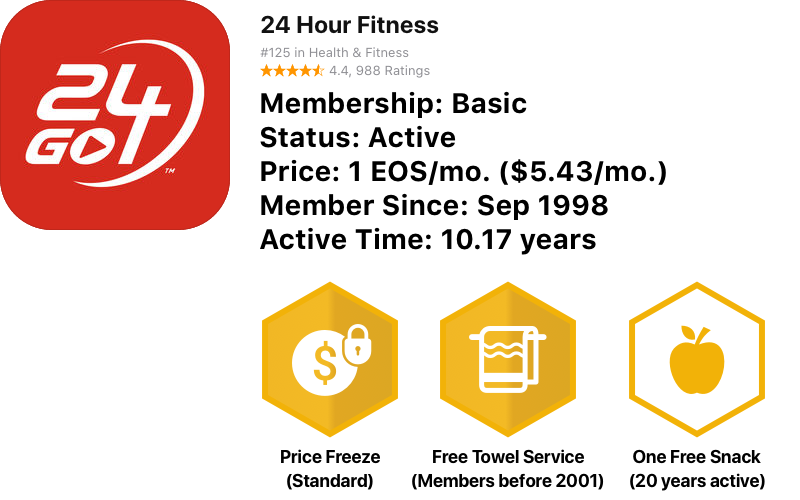
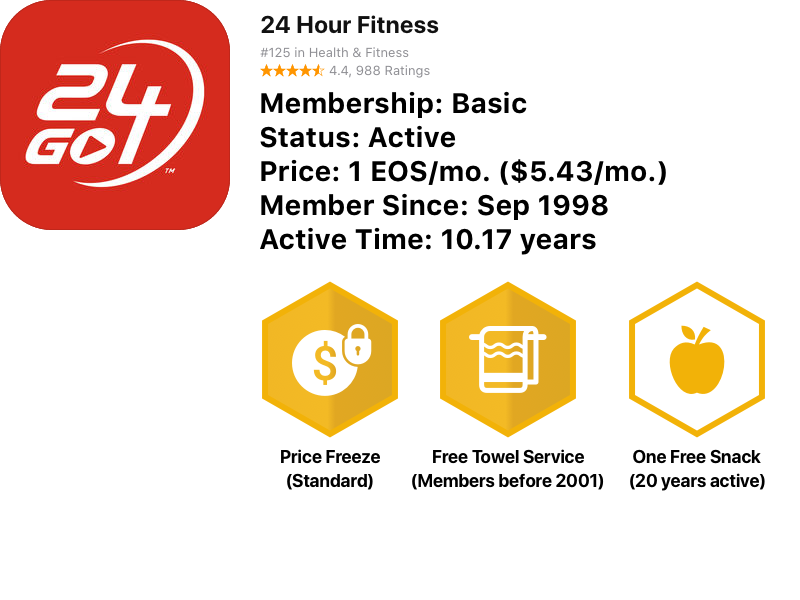
now has wow, if you manually set it

diff --git a/frontend/src/pages/store.jsx b/frontend/src/pages/store.jsx
@@ -4,12 +4,9 @@ import { Api, JsonRpc, RpcError, JsSignatureProvider } from 'eosjs'; // https://
 import { TextDecoder, TextEncoder } from 'text-encoding';
 
 import '../styles/Store.css';
-import Button from '@material-ui/core/Button';
 
 const endpoint = "http://localhost:8888";
 
-// NEVER store private keys in any source code in your real life development
-// This is for demo purposes only!
 const accounts = [
   {"name":"subscriber1", "privateKey":"5JhhMGNPsuU42XXjZ57FcDKvbb7KLrehN65tdTQFrH51uruZLHi", "publicKey":"EOS7ckzf4BMgxjgNSYV22rtTXga8R9Z4XWVhYp8TBgnBi2cErJ2hn"},
 ];
@@ -25,25 +22,11 @@ class Store extends Component {
   }
 
   async handleSubscribe(event) {
-    // stop default behaviour
-
     event.preventDefault();
 
-    // collect form data
     let account = accounts[0]['name']
     let privateKey = accounts[0]['privateKey']
 
-    // prepare variables for the switch below to send transactions
-    let actionName = "";
-    let actionData = {};
-
-    actionName = "subscribe";
-    actionData = {
-      subscriber: account,
-      dapp_account: "dappowner1"
-    };
-
-    // eosjs function call: connect to the blockchain
     const rpc = new JsonRpc(endpoint);
     const signatureProvider = new JsSignatureProvider([privateKey]);
     const api = new Api({ rpc, signatureProvider, textDecoder: new TextDecoder(), textEncoder: new TextEncoder() });
@@ -57,7 +40,10 @@ class Store extends Component {
             actor: account,
             permission: 'active',
           }],
-          data: actionData,
+          data: {
+            subscriber: account,
+            dapp_account: "dappowner1"
+          }
         }]
       }, {
         blocksBehind: 3,
@@ -75,9 +61,12 @@ class Store extends Component {
   }
 
   render() {
+
+    let storeClass = "Store-" + this.props.storeId
+
     return (
       <div className="Store">
-        <div className="Store-24h">
+        <div className={storeClass}>
             <div className="buttons">
               <div className="button" onClick={this.handleSubscribe}>
                 Start Membership

diff --git a/frontend/src/styles/Store.css b/frontend/src/styles/Store.css
@@ -9,8 +9,13 @@
 .Store-24h {
 	background-image: url("/assets/store-pages/24h.png");
 	width: 800px;
-	height: 500px;
+	height: 600px;
+}
 
+.Store-wow {
+	background-image: url("/assets/store-pages/wow.png");
+	width: 800px;
+	height: 600px;
 }
 
 .Store .buttons {

diff --git a/frontend/src/pages/index.jsx b/frontend/src/pages/index.jsx
@@ -10,7 +10,7 @@ class Index extends Component {
     return (
       <div id="Index">
         <Menu />
-        <Store />
+        <Store storeId="wow" />
       </div>
     );
   }
